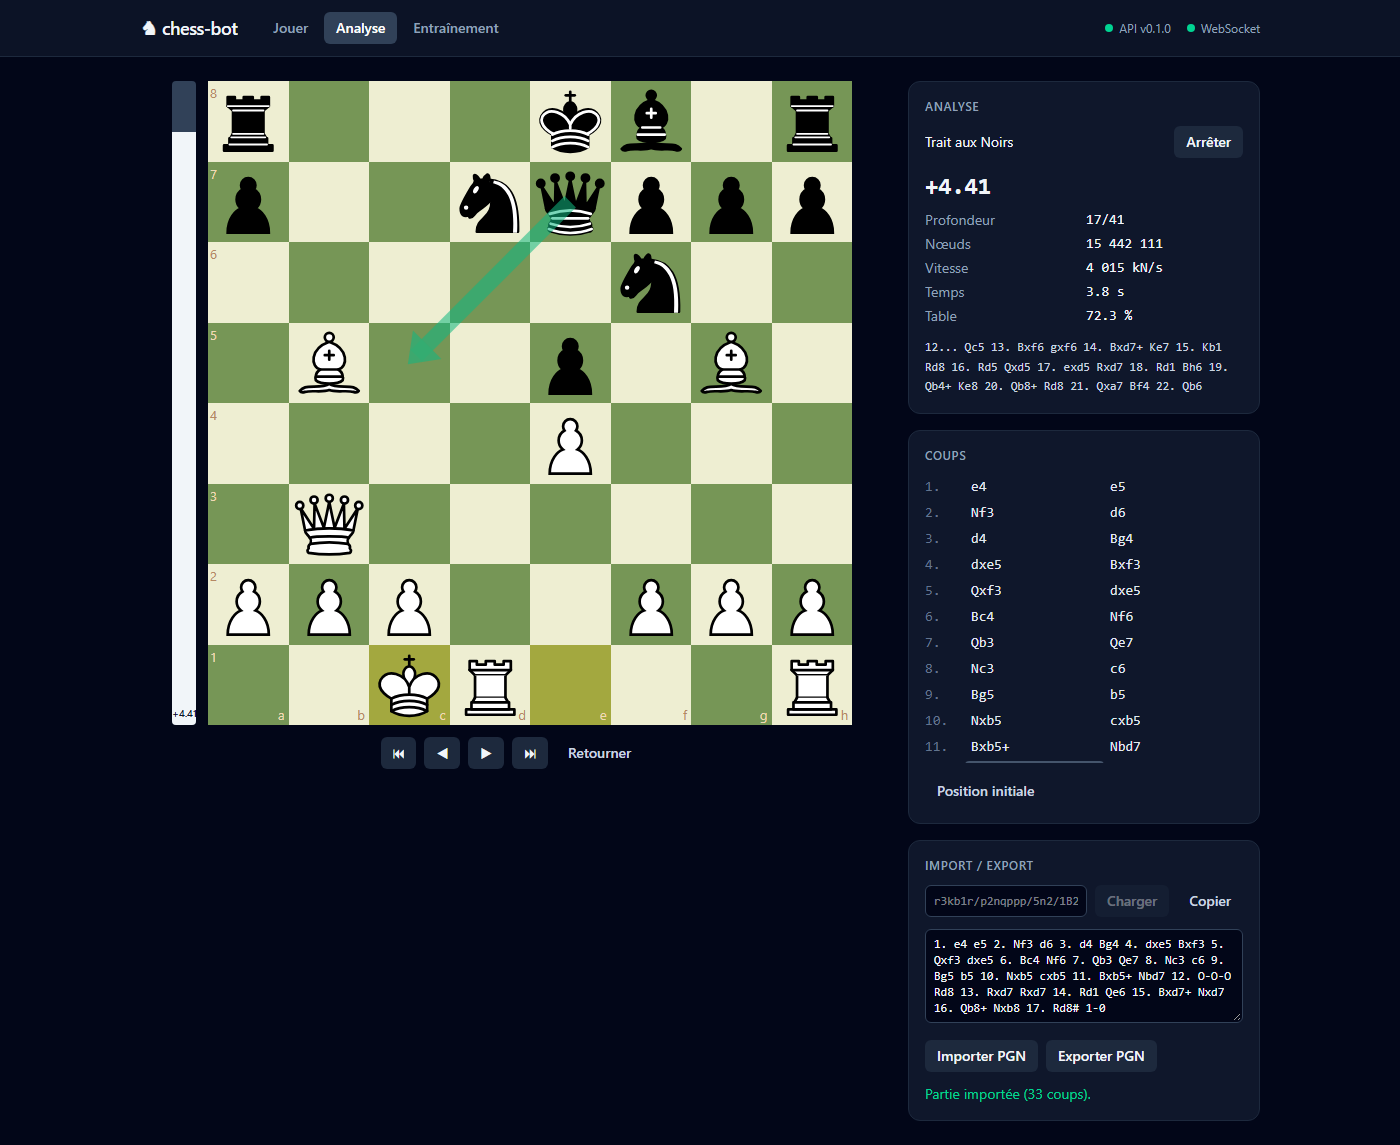
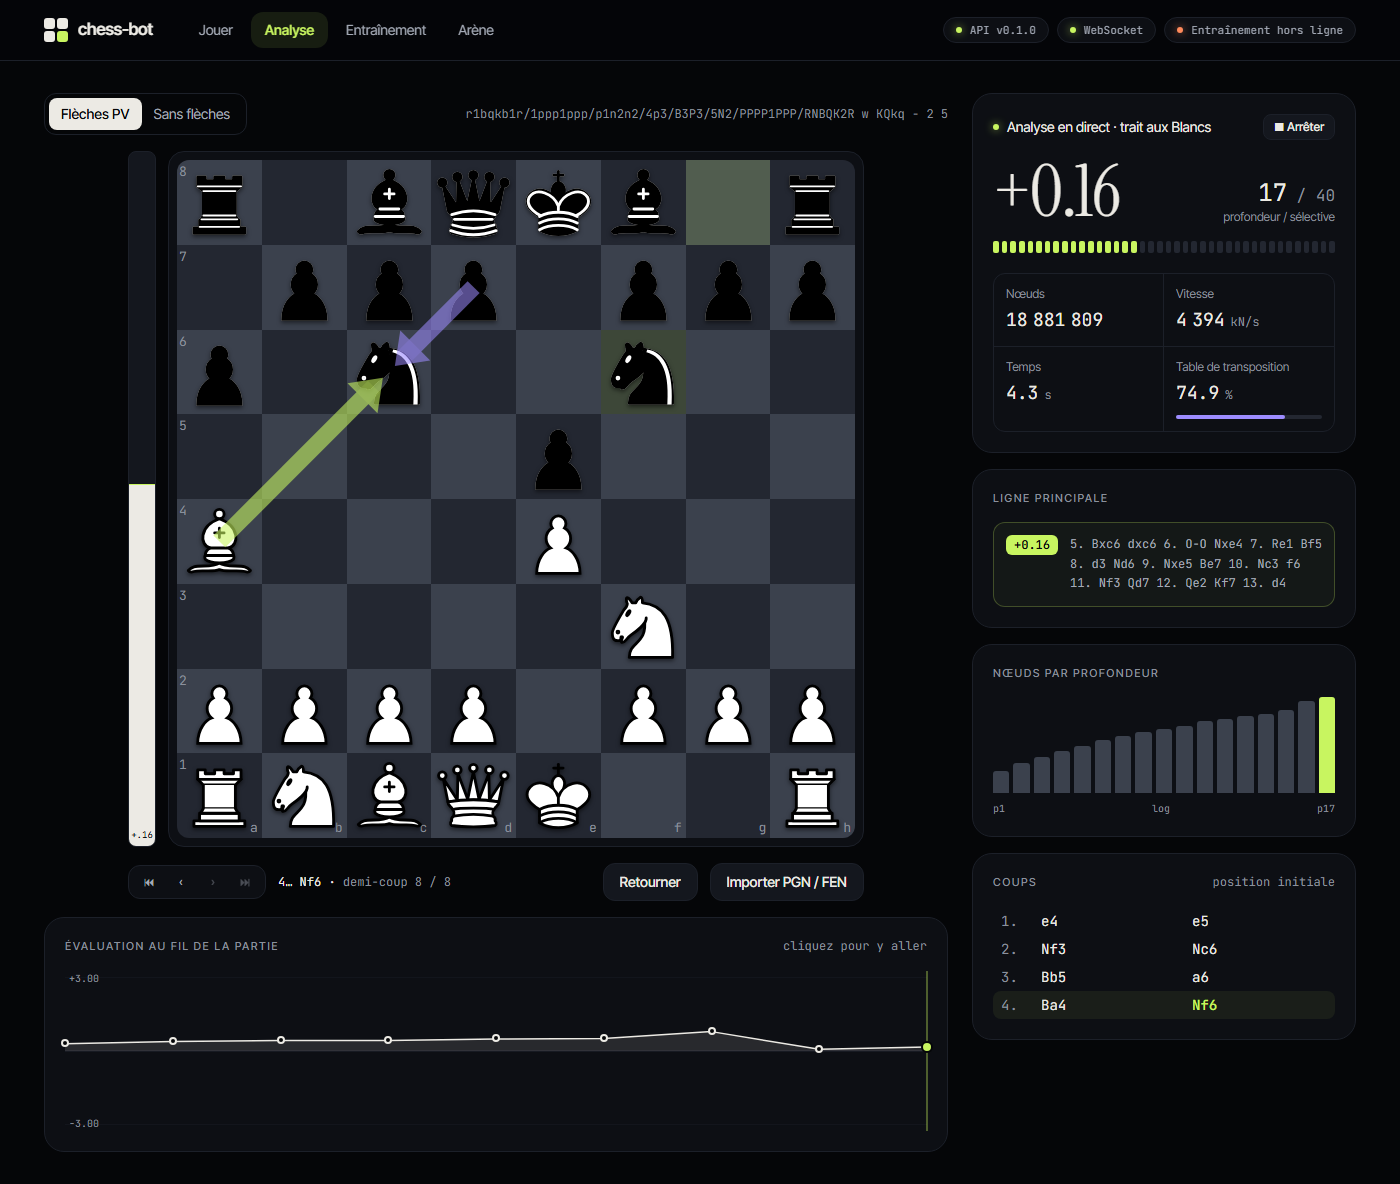
docs: refresh the UI screenshots and description

diff --git a/README.md b/README.md
@@ -6,9 +6,9 @@ Moteur d'échecs en Rust qui apprend en jouant contre lui-même :
 2. **Entraînement** : self-play et entraînement d'un réseau NNUE avec [burn](https://burn.dev), sur GPU NVIDIA avec repli automatique sur le CPU.
 3. **Visualisation** : interface web (React + TypeScript) pour jouer, analyser et piloter l'entraînement.
 
-| Jouer | Analyser | Entraîner |
-| --- | --- | --- |
-| [![Jouer](docs/screenshots/play.png)](docs/screenshots/play.png) | [![Analyser](docs/screenshots/analysis.png)](docs/screenshots/analysis.png) | [![Entraîner](docs/screenshots/training.png)](docs/screenshots/training.png) |
+| Jouer | Analyser | Entraîner | Arène |
+| --- | --- | --- | --- |
+| [![Jouer](docs/screenshots/play.png)](docs/screenshots/play.png) | [![Analyser](docs/screenshots/analysis.png)](docs/screenshots/analysis.png) | [![Entraîner](docs/screenshots/training.png)](docs/screenshots/training.png) | [![Arène](docs/screenshots/arena.png)](docs/screenshots/arena.png) |
 
 ## Sommaire
 
@@ -163,15 +163,16 @@ Le niveau de log se règle avec `RUST_LOG` (ex. `RUST_LOG=debug`).
 
 <http://localhost:8080> (Docker) ou <http://localhost:5173> (`just web-dev`).
 
-- **Jouer** : échiquier en glisser-déposer ou clic-clic, choix de la couleur (blancs, noirs, aléatoire), niveau réglable en profondeur (1 à 20) ou en temps par coup (0,1 à 10 s), annulation de coup, import/export FEN et PGN.
-- **Analyse** : barre d'évaluation, score, ligne principale en SAN, flèche du meilleur coup, infos de recherche en direct (profondeur, nœuds, vitesse, remplissage de la table). L'analyse est relancée à chaque coup. On navigue dans la partie avec les flèches ← → (Origine et Fin pour aller au début ou à la fin), ou en cliquant dans la liste des coups.
-- **Entraînement** : liste des réseaux de neurones, avec leurs hyperparamètres et leur meilleur Elo. « Nouveau réseau » ouvre un formulaire : nom, hyperparamètres (pré-remplis avec les valeurs par défaut ou celles d'un autre réseau, ou **tirés au hasard** avec « Hyperparamètres aléatoires ») et réseaux dont on réutilise les parties. Pour le réseau sélectionné, on trouve :
-  - son état (device, phase, parties, positions, superbatchs, perte, vitesse, VRAM) ;
+- **Jouer** : échiquier en perspective (clic-clic) ou à plat (glisser-déposer aussi), choix de la couleur (blancs, noirs, aléatoire), niveau réglable en profondeur (1 à 20) ou en temps par coup (0,1 à 10 s), annulation de coup, **indice** (flèche du meilleur coup), import/export FEN et PGN. Autour du plateau : le réseau joué par le bot, son inférence (profondeur, nœuds, vitesse, suite prévue, masquable jusqu'à votre coup), son évaluation coup après coup et le temps de réflexion de chaque camp.
+- **Analyse** : barre d'évaluation, score, ligne principale en SAN, flèches du meilleur coup et de la réponse attendue, infos de recherche en direct (profondeur, nœuds, vitesse, remplissage de la table), nœuds par profondeur et courbe d'évaluation de la partie (un clic y amène). L'analyse est relancée à chaque coup. On navigue dans la partie avec les flèches ← → (Origine et Fin pour aller au début ou à la fin), ou en cliquant dans la liste des coups.
+- **Entraînement** : les réseaux de neurones en cartes, avec leur meilleur Elo. Si le service est arrêté, un bandeau donne la commande pour le lancer. « Nouveau réseau » ouvre un formulaire : nom, hyperparamètres (pré-remplis avec les valeurs par défaut ou celles d'un autre réseau, ou **tirés au hasard** avec « Hyperparamètres aléatoires ») et réseaux dont on réutilise les parties. Pour le réseau sélectionné, on trouve :
+  - son meilleur Elo contre PeSTO et son état (device, phase, parties, positions, superbatchs, perte, vitesse, VRAM) ;
+  - sa fiche technique (hyperparamètres) ;
   - son **top 5** des snapshots, chacun sauvegardable comme bot ;
   - ses courbes de perte et d'Elo contre PeSTO ;
   - les boutons « Démarrer / reprendre », « Arrêter », « Repartir de zéro » et « Supprimer » ;
   - un **minuteur** : on démarre pour une durée donnée (15 min à 24 h, ou un nombre de minutes au choix, jusqu'à une semaine). À l'échéance, l'entraînement s'arrête comme avec « Arrêter » : il finit l'étape en cours, écrit un checkpoint et exporte le réseau. Pendant l'entraînement, un compte à rebours indique l'heure d'arrêt ; on peut la modifier ou retirer le minuteur.
-- **Arène** : les bots sauvegardés, plus PeSTO et **Stockfish niveaux 1 à 10**, et les **tournois** toutes-rondes entre eux : choix des participants, des parties par paire et de la réflexion de nos bots (nœuds, profondeur ou temps par coup). La **table croisée des participants** permet d'activer ou de désactiver chaque combat avant le lancement, par exemple pour ne faire jouer tes réseaux que contre Stockfish. Un clic sur un nom bascule tous ses combats, et des boutons permettent de tout activer ou de tout désactiver. Avant le lancement, le formulaire affiche la **durée estimée** du tournoi. Une fois lancé, un tournoi affiche sa progression en direct, un classement Elo, une table croisée et l'historique des tournois.
+- **Arène** : les bots sauvegardés, plus PeSTO et **Stockfish niveaux 1 à 10**, et les **tournois** toutes-rondes entre eux : choix des participants, des parties par paire et de la réflexion de nos bots (nœuds, profondeur ou temps par coup). La **table croisée des participants** permet d'activer ou de désactiver chaque combat avant le lancement, par exemple pour ne faire jouer tes réseaux que contre Stockfish. Un clic sur un nom bascule tous ses combats, et des boutons permettent de tout activer ou de tout désactiver. Avant le lancement, le formulaire affiche la **durée estimée** du tournoi. Une fois lancé, un tournoi affiche sa progression en direct, un résumé (par exemple « main-sb305 bat Stockfish 6 et ne cède qu'au niveau 7 »), un podium, un classement Elo, une table croisée et l'historique des tournois.
 
 Les boutons de ces deux pages passent par le démon de contrôle : il faut le profil `train` ou `train-cpu`. Sans lui, réseaux, bots et résultats restent consultables.
 
